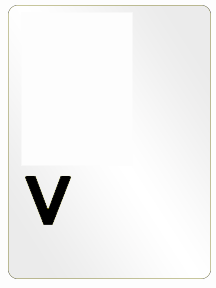
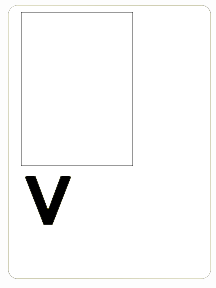
Commit for Issue #114 Change card background to white

diff --git a/protected/assets/css/style.css b/protected/assets/css/style.css
@@ -1273,10 +1273,10 @@ dt.tabs dt{
 .cardPhotoPreview{
     background-color: #FFF;
     height: 154px;
-    margin-left: 76px;
-    margin-top: 12px;
+    margin-left: 68px;
+    margin-top: 13px;
     position: absolute;
-    width: 113px;
+    width: 120px;
     color:white;
 }
 

diff --git a/protected/views/visit/visitordetail-visitorInformation.php b/protected/views/visit/visitordetail-visitorInformation.php
@@ -126,9 +126,9 @@ if (preg_match('/(?i)msie [1-8]/', $_SERVER['HTTP_USER_AGENT'])) {
                                     foreach ($cardType as $key => $value) {
                                         ?>
                                         <option value="<?php echo $value->id; ?>" <?php
-                                    if ($model->card_type == $value->id) {
-                                        echo " selected ";
-                                    }
+                                        if ($model->card_type == $value->id) {
+                                            echo " selected ";
+                                        }
                                         ?>><?php echo $value->name; ?></option>
                                                 <?php
                                             }
@@ -214,9 +214,9 @@ if (preg_match('/(?i)msie [1-8]/', $_SERVER['HTTP_USER_AGENT'])) {
                                     foreach ($reason as $key => $value) {
                                         ?>
                                         <option value="<?php echo $value->id; ?>" <?php
-                                    if ($model->reason == $value->id) {
-                                        echo " selected ";
-                                    }
+                                        if ($model->reason == $value->id) {
+                                            echo " selected ";
+                                        }
                                         ?>><?php echo $value->reason; ?></option>
                                                 <?php
                                             }
@@ -251,8 +251,8 @@ if (preg_match('/(?i)msie [1-8]/', $_SERVER['HTTP_USER_AGENT'])) {
                         <tr>
                             <td width="100px;"><label for="VisitReason_reason">Reason</label></td>
                             <td><textarea id="VisitReason_reason" name="VisitReason[reason]" style="width:200px !important;text-transform: capitalize;" cols="80" rows="3"><?php
-                    echo $reasonModel->reason;
-                    ?></textarea> <?php echo $addReasonForm->error($reasonModel, 'reason'); ?>
+                                    echo $reasonModel->reason;
+                                    ?></textarea> <?php echo $addReasonForm->error($reasonModel, 'reason'); ?>
                                 <div class="errorMessage visitorReason" id="visitReasonErrorMessage">Please select a reason</div>
                             </td>
                         </tr>
@@ -276,8 +276,15 @@ if (preg_match('/(?i)msie [1-8]/', $_SERVER['HTTP_USER_AGENT'])) {
                             'validateOnSubmit' => true,
                             'afterValidate' => 'js:function(form,data,hasError){
                         if(!hasError){
-                                sendVisitForm("update-host-visit-form");
-                                sendVisitForm("update-visit-form");
+                        
+                        if($("#selectedHostInSearchTable").val() == ""){
+                            $("#searchTextHostErrorMessage").show();
+                            $("#searchTextHostErrorMessage").html("Please assign a host");
+                        } else {
+                            sendVisitForm("update-host-visit-form");
+                            sendVisitForm("update-visit-form");
+                        }
+                                
                                 
                                 }
                         }'
@@ -293,14 +300,14 @@ if (preg_match('/(?i)msie [1-8]/', $_SERVER['HTTP_USER_AGENT'])) {
                             <button class="host-findBtn" onclick="findHostRecord()" id="host-findBtn" style="display:none;" data-target="#findHostRecordModal" data-toggle="modal">Search Visits</button>
                             <div class="errorMessage" id="searchTextHostErrorMessage" style="display:none;font-size:12px;"></div>
 
-                            <button class="host-findBtn" id="dummy-host-findBtn">Find Host</button>
+                            <button class="host-findBtn" id="dummy-host-findBtn" style="line-height:0px;">Find Host</button>
                         </div>
                         <input type="text" name="Visit[host]" id="selectedHostInSearchTable" style="display:none;"/>
                         <input type="text" name="Visit[visitor_type]" id="visitorTypeUnderSearchForm" style="display:none;" value="<?php
-                    if ($session['role'] == Roles::ROLE_STAFFMEMBER) {
-                        echo "2";
-                    }
-                    ?>"/>
+                        if ($session['role'] == Roles::ROLE_STAFFMEMBER) {
+                            echo "2";
+                        }
+                        ?>"/>
                                <?php echo "<br>" . $updateHostVisitForm->error($model, 'host'); ?>
                         <div id="searchHostTableDiv">
                             <br><div style="font-weight:bold;" class="findDivTitle"></div><br>
@@ -593,7 +600,7 @@ if (preg_match('/(?i)msie [1-8]/', $_SERVER['HTTP_USER_AGENT'])) {
                         <table id="patientTable" class="detailsTable">
                             <tr>
                                 <td width="100px;"><?php echo $patientForm->labelEx($patientModel, 'first_name');
-                    ?></td>
+                        ?></td>
                                 <td>
                                     <?php echo $patientForm->textField($patientModel, 'name', array('size' => 50, 'maxlength' => 50)); ?>
                                     <?php echo "<br>" . $patientForm->error($patientModel, 'name'); ?>
@@ -666,7 +673,7 @@ if (preg_match('/(?i)msie [1-8]/', $_SERVER['HTTP_USER_AGENT'])) {
 
         $("#findHostModalBtn").click();
         //change modal url to pass user searched text
-        var url = 'index.php?r=visitor/findhost&id=' + $("#search-host").val() + '&visitortype=2';
+        var url = 'index.php?r=visitor/findhost&id=' + $("#search-host").val() + '&visitortype=2&tenant=<?php echo $model->tenant; ?>&tenant_agent=<?php echo $model->tenant_agent; ?>';
         $("#findHostModalBody #modalIframe").html('<iframe id="findHostTableIframe" scrolling="no" onLoad="autoResize2();" width="100%" height="100%" style="max-height:400px !important;" frameborder="0" src="' + url + '"></iframe>');
     }
 
@@ -696,8 +703,11 @@ if (preg_match('/(?i)msie [1-8]/', $_SERVER['HTTP_USER_AGENT'])) {
                 $('#findHostTableIframe').contents().find('.findHostButtonColumn a').html('Select Host');
                 $('#findHostTableIframe').contents().find('#' + id).addClass('delete');
                 $('#findHostTableIframe').contents().find('#' + id).html('Selected Host');
+                alert(id);
+
                 $("#selectedHostInSearchTable").val(id);
                 $(".visitortypehost").val(id);
+                alert($("#selectedHostInSearchTable").val());
             }
         });
     }
